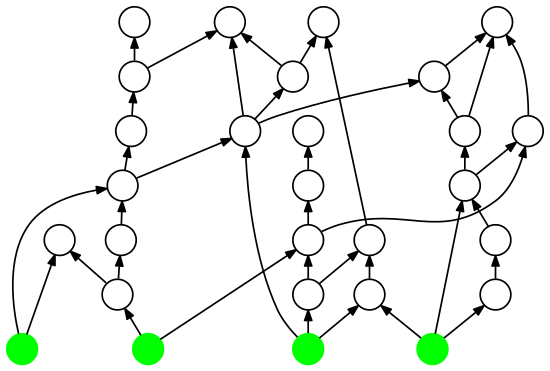
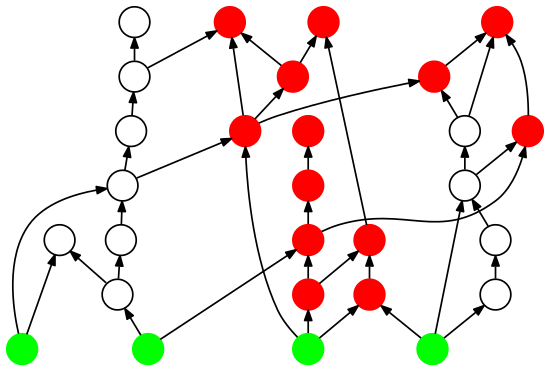
added example of a complex dependency graph based on example from Distributed REScala paper

diff --git a/src/examples/complex.c b/src/examples/complex.c
@@ -3,7 +3,11 @@
 
 #include "reactive-c/api.h"
 
-void dummy(observation_t _) {}
+#include "internals.h"
+
+void mark(observation_t ob) {
+  _mark(ob->self);
+}
 
 int main(void) {
   int _a = 0, _b = 0, _c = 0, _d = 0;
@@ -13,40 +17,47 @@ int main(void) {
   observable_t c = observe(_c);
   observable_t d = observe(_d);
 
-  observable_t l11 = observe(just(b), dummy, void);
-  observable_t l12 = observe(just(c), dummy, void);
-  observable_t l13 = observe(each(c,d), dummy, void);
-  observable_t l14 = observe(just(d), dummy, void);
+  observable_t l11 = observe(just(b), mark, int);
+  observable_t l12 = observe(just(c), mark, int);
+  observable_t l13 = observe(each(c,d), mark, int);
+  observable_t l14 = observe(just(d), mark, int);
   
-  observable_t l21 = observe(each(a, l11), dummy, void);
-  observable_t l22 = observe(just(l11), dummy, void);
-  observable_t l23 = observe(each(b, l12), dummy, void);
-  observable_t l24 = observe(just(l14), dummy, void);
+  observable_t l21 = observe(each(a, l11), mark, int);
+  observable_t l22 = observe(just(l11), mark, int);
+  observable_t l23 = observe(each(b, l12), mark, int);
+  observable_t l24 = observe(just(l14), mark, int);
   
-  observable_t l31 = observe(each(a, l22), dummy, void);
-  observable_t l32 = observe(just(l23), dummy, void);
-  observable_t l33 = observe(each(l12, l13), dummy, void);
-  observable_t l34 = observe(each(d, l24), dummy, void);
+  observable_t l31 = observe(each(a, l22), mark, int);
+  observable_t l32 = observe(just(l23), mark, int);
+  observable_t l33 = observe(each(l12, l13), mark, int);
+  observable_t l34 = observe(each(d, l24), mark, int);
   
-  observable_t l41 = observe(just(l31),dummy, void);
-  observable_t l42 = observe(each(l31,c),dummy, void);
-  observable_t l43 = observe(just(l32),dummy, void);
-  observable_t l44 = observe(just(l34),dummy, void);
-  observable_t l45 = observe(each(l34, l23),dummy, void);
+  observable_t l41 = observe(just(l31),mark, int);
+  observable_t l42 = observe(each(l31,c),mark, int);
+  observable_t l43 = observe(just(l32),mark, int);
+  observable_t l44 = observe(just(l34),mark, int);
+  observable_t l45 = observe(each(l34, l23),mark, int);
   
-  observable_t l51 = observe(just(l41),dummy, void);
-  observable_t l52 = observe(each(l42, l44),dummy, void);
+  observable_t l51 = observe(just(l41),mark, int);
+  observable_t l52 = observe(each(l42, l44),mark, int);
   
-  observable_t l61 = observe(just(l51),dummy, void);
-  observable_t l62 = observe(just(l42),dummy, void);
-  observable_t l63 = observe(each(l52, l44, l45),dummy, void);
+  observable_t l61 = observe(just(l51),mark, int);
+  observable_t l62 = observe(just(l42),mark, int);
+  observable_t l63 = observe(each(l52, l44, l45),mark, int);
   
-  observable_t l71 = observe(each(l51, l42, l62),dummy, void);
-  observable_t l72 = observe(each(l62, l33), dummy, void);
+  observable_t l71 = observe(each(l51, l42, l62),mark, int);
+  observable_t l72 = observe(each(l62, l33), mark, int);
 
+  // to avoid warnings about unused variables
+  l63 = NULL;  l43 = NULL;  l61 = NULL;  l21 = NULL;  l72 = NULL;
+  
+  // propagate one change through the graph
+  observe_update(c);
+
+  // dump the graph with markings
   FILE *fp = fopen("complex.dot", "w");
   to_dot(l71, fp, DOT_MESSAGE_STYLE | DOT_HIDE_LABELS | DOT_SMALL_RANK_SEP
-                | DOT_SHAPE_IS_CIRCLE);
+                | DOT_SHAPE_IS_CIRCLE | DOT_SHOW_MARKED);
   fclose(fp);
 
   exit(EXIT_SUCCESS);
